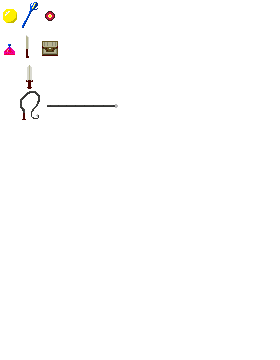
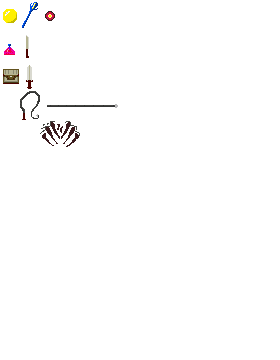
Added claw attack weapon for Demon 2

Changed region(s): [[0.1429, 0.3361, 0.2857, 0.4278], [0.0, 0.1833, 0.0857, 0.2444], [0.1429, 0.0917, 0.2286, 0.1528]]

diff --git a/actors_description.py b/actors_description.py
@@ -360,7 +360,7 @@ demon_2 = {
         },
     },
     'max speed': 2 + randint(1, 10) / 10,
-    'items': (whip,),
+    'items': (demon_2_close,demon_2_mid,),
     'animations': {
         'stand still right': {
                 'repeat': True, 'interruptable': True,
@@ -602,8 +602,7 @@ demon_2 = {
         },
         'stab right': {
             'repeat': False, 'interruptable': True,
-            'sequence': (74,74,74,74,75,  # 0 - 4
-                         74,74,74,74,75, 75), # 5 - 9
+            'sequence': (60,60,60,60,61,61,61,61,61,61), # 5 - 9
                          # 74,74,74,74,74,  # 5 - 9
                          # 74,74,74,75,75,  # 10 - 14
                          # 74,74,74,74,74,  # 15 - 19
@@ -617,50 +616,42 @@ demon_2 = {
                     # 'move': 10,  # Slightly move actor forward,
                     'demolisher': True
                 },
-                9: {
-                    # 'move': 10,  # Slightly move actor forward,
-                    'demolisher': True
-                },
             },
-            'demolisher offset': {
-                1: (sprites['demon 2 75']['demolisher snap point'][0],
-                    sprites['demon 2 75']['demolisher snap point'][1]),
-
-                # 1: (46, 36),
-                # -1: (-46, 36),
-            },
+            # 'demolisher offset': {
+            #     1: (sprites['demon 2 75']['demolisher snap point'][0],
+            #         sprites['demon 2 75']['demolisher snap point'][1]),
+            #
+            #     # 1: (46, 36),
+            #     # -1: (-46, 36),
+            # },
             'repeat from frame': 0
         },
         'stab left': {
             'repeat': False, 'interruptable': True,
-            'sequence': (89, 89, 89, 89, 88,
-                         89, 89, 89, 89, 88, 88),  # 0 - 4
-                         # 89, 89, 89, 89, 89,  # 5 - 9
-                         # 89, 89, 89, 88, 88,  # 10 - 14
-                         # 89, 89, 89, 89, 89,  # 15 - 19
-                         # 89, 89, 89, 89, 89,  # 20 - 24
-                         # 89, 89, 89, 88, 88),  # 25 - 29
-            # 'demolisher offset': (-46,36),
+            'sequence': (62,62,62,62,63,63,63,63,63,63), # 5 - 9
+                         # 74,74,74,74,74,  # 5 - 9
+                         # 74,74,74,75,75,  # 10 - 14
+                         # 74,74,74,74,74,  # 15 - 19
+                         # 74,74,74,74,74,  # 20 - 24
+                         # 74,74,74,75,75), # 25 - 29
+            # 'demolisher offset': (46, 36),
             'activity at frames': {
                 4: {
                     'sound': True,
                     # 'move': 10, # Slightly move actor forward,
                     'demolisher': True
                 },
-                9: {
-                    # 'move': 10, # Slightly move actor forward,
-                    'demolisher': True
-                },
             },
             'speed': 1,
-            'demolisher offset': {
-                -1: (sprites['demon 2 88']['demolisher snap point'][0],
-                    sprites['demon 2 88']['demolisher snap point'][1]),
-
-                # 1: (46, 36),
-                # -1: (-46, 36),
-            },
-            'sound': None, 'sound at frames': (1, 4), 'repeat from frame': 2
+            # 'demolisher offset': {
+            #     -1: (sprites['demon 2 61']['demolisher snap point'][0],
+            #         sprites['demon 2 88']['demolisher snap point'][1]),
+            #
+            #     # 1: (46, 36),
+            #     # -1: (-46, 36),
+            # },
+            # 'sound': None, 'sound at frames': (1, 4),
+            'repeat from frame': 2
         },
         'cast right': {
             'repeat': False, 'interruptable': True,

diff --git a/weapons.py b/weapons.py
@@ -169,3 +169,78 @@ whip = {
     ),
 
 }
+
+
+demon_2_mid = {
+    'description': 'Demon 2 middle ranged weapon',
+    'class': 'weapons',
+    'type': 'melee',
+    'label': 'demon 2 mid',
+    'sprite': 'whip',
+    'attack animation': 'whip',
+    'sound': 'sound_swing_2',
+    'amount': 1,
+    'amount threshold': 1,
+    'amount decrease speed': 0,
+    'affects on': '',
+    'stamina consumption': 1.0,  # Stamina reduce multiplier. The greater, the more stamina will be lost by one weapon use.
+    'mana consumption': 0.,
+    'ignore user input': True,  # Steal the ability to control a character for a while.
+    'animation speed modifier': 1.,  # 0 < x < 1: speed animation up, x > 1: slow down.
+    'leave particles': False,
+    'attack type': 'pierce',
+    'droppable': True,
+    'need ammo': False,
+    'ammo': 0,
+    'reach': 170,
+    'demolishers': (
+        {
+            'rect': pygame.Rect(0, 0, 170, 5), 'flyer': False,
+            'demolisher sprite': 'whip demolisher',
+            'pierce': False, 'demolisher TTL': 6, 'speed': 0,
+            'damage': 150, 'static': True, 'damage reduce': 0,
+            'collides': False, 'gravity affected': False,
+            'bounce': False, 'bounce factor': 0.,
+            # 'aftermath': 'explode'
+            'aftermath': 'disappear'
+        },
+    ),
+
+}
+
+demon_2_close = {
+    'description': 'Demon 2 close combat weapon',
+    'class': 'weapons',
+    'type': 'melee',
+    'label': 'demon 2 mid',
+    'sprite': 'whip',
+    'attack animation': 'stab',
+    'sound': 'sound_swing_2',
+    'amount': 1,
+    'amount threshold': 1,
+    'amount decrease speed': 0,
+    'affects on': '',
+    'stamina consumption': 1.0,  # Stamina reduce multiplier. The greater, the more stamina will be lost by one weapon use.
+    'mana consumption': 0.,
+    'ignore user input': True,  # Steal the ability to control a character for a while.
+    'animation speed modifier': 1.,  # 0 < x < 1: speed animation up, x > 1: slow down.
+    'leave particles': False,
+    'attack type': 'pierce',
+    'droppable': True,
+    'need ammo': False,
+    'ammo': 0,
+    'reach': 100,
+    'demolishers': (
+        {
+            'rect': pygame.Rect(0, 0, 170, 5), 'flyer': False,
+            'demolisher sprite': 'demon 2 claw demolisher',
+            'pierce': False, 'demolisher TTL': 10, 'speed': 0,
+            'damage': 2, 'static': True, 'damage reduce': 0,
+            'collides': False, 'gravity affected': False,
+            'bounce': False, 'bounce factor': 0.,
+            # 'aftermath': 'explode'
+            'aftermath': 'disappear'
+        },
+    ),
+
+}

diff --git a/world.py b/world.py
@@ -728,7 +728,10 @@ class World(object):
             #     continue
             while actor.drop_from_inventory:
                 i = actor.drop_from_inventory.pop()
-                self.add_item(all_items[i], (actor.rectangle.right if actor.look == 1 else actor.rectangle.left - sprites[i]['sprite'].get_width(), actor.rectangle.bottom - sprites[i]['sprite'].get_height()))
+                # self.add_item(all_items[i], actor.rectangle.topleft)
+                # self.add_item(all_items[i], (actor.rectangle.centerx, actor.rectangle.top))
+                # self.add_item(all_items[i], (actor.rectangle.right if actor.look == 1 else actor.rectangle.left - sprites[i]['sprite'].get_width(), actor.rectangle.bottom - sprites[i]['sprite'].get_height()))
+                self.add_item(all_items[i], (actor.rectangle.centerx - sprites[i]['sprite'].get_width() //2, actor.rectangle.bottom - sprites[i]['sprite'].get_height()))
 
             if actor.dead:
                 dead.append(actor.id)
@@ -1111,8 +1114,8 @@ class World(object):
     def render_all(self):
         self.render_background()
         self.render_obstacles()
-        self.render_demolishers()
         self.render_actors()
+        self.render_demolishers()
         self.render_particles()
         # self.render_player_actor()
         if self.is_i:

diff --git a/actor.py b/actor.py
@@ -134,6 +134,18 @@ class Actor(Entity):
 
     def think(self):
         if self.think_type == 'chaser':
+            # lst = list(self.actors['player'].inventory['weapons'].keys())
+            # indx = lst.index(self.actors['player'].current_weapon['label'])
+            # if indx + 1 > len(lst) - 1:
+            #     self.actors['player'].activate_weapon(0)
+            # else:
+            #     self.actors['player'].activate_weapon(lst[indx + 1])
+
+            # print(list(self.inventory['weapons'].keys()))
+            # if self.rectangle.colliderect(self.target.rectangle):
+            #     self.activate_weapon(list(self.inventory['weapons'].keys())[0])
+            # else:
+            #     self.activate_weapon(list(self.inventory['weapons'].keys())[1])
             if self.rectangle.left > self.target.rectangle.right:
                 if self.rectangle.left - self.target.rectangle.right <= self.current_weapon['reach']:
                     self.ai_input_attack = True

diff --git a/graphics.py b/graphics.py
@@ -315,7 +315,8 @@ load_single_frame(items, ((40,0,20,30),), 'kitchen knife demolisher', 3)
 load_single_frame(items, ((20,60,20,30),), 'short sword', 5)
 load_single_frame(items, ((20,90,20,30),), 'whip', 5)
 load_single_frame(items, ((40,90,80,30),), 'whip demolisher', 4)
-load_single_frame(items, ((40,30,20,30),), 'stash', 8)
+load_single_frame(items, ((40,120,40,30),), 'demon 2 claw demolisher', 5)
+load_single_frame(items, ((0,60,20,30),), 'stash', 8)
 
 
 # ___...---=== JAKE ===---...___
